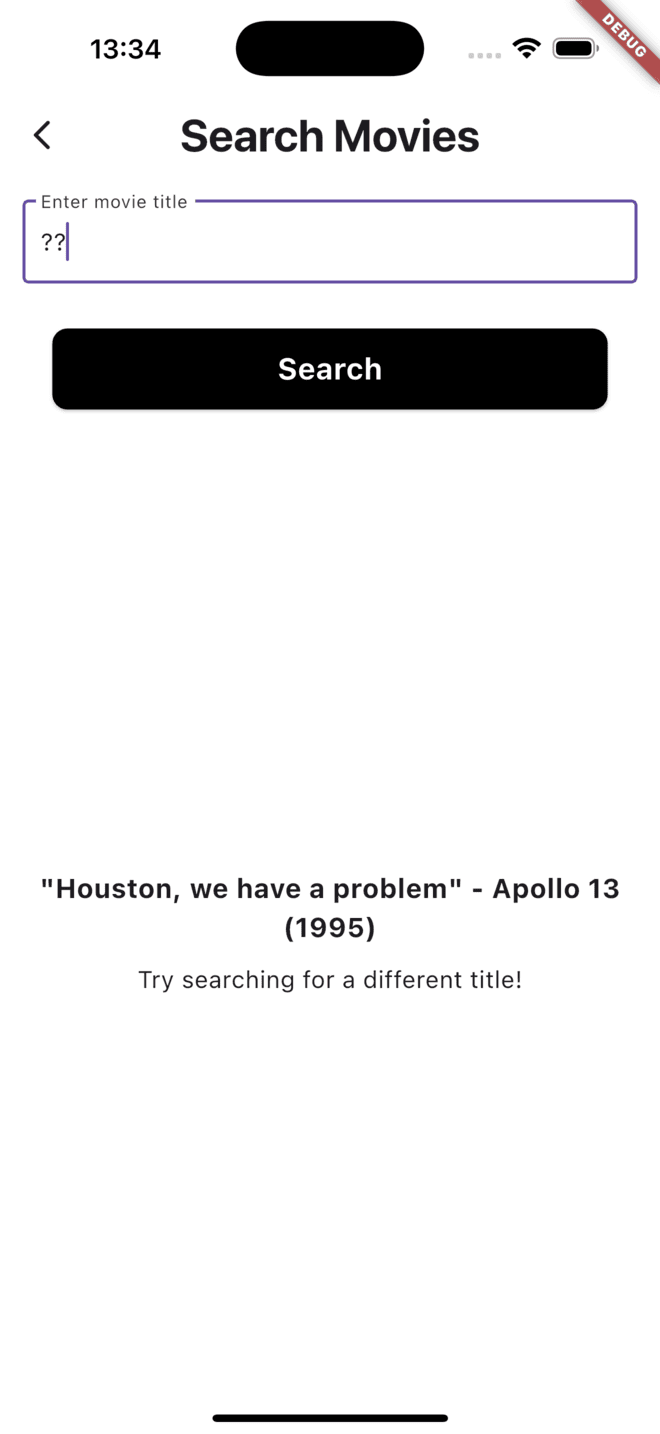
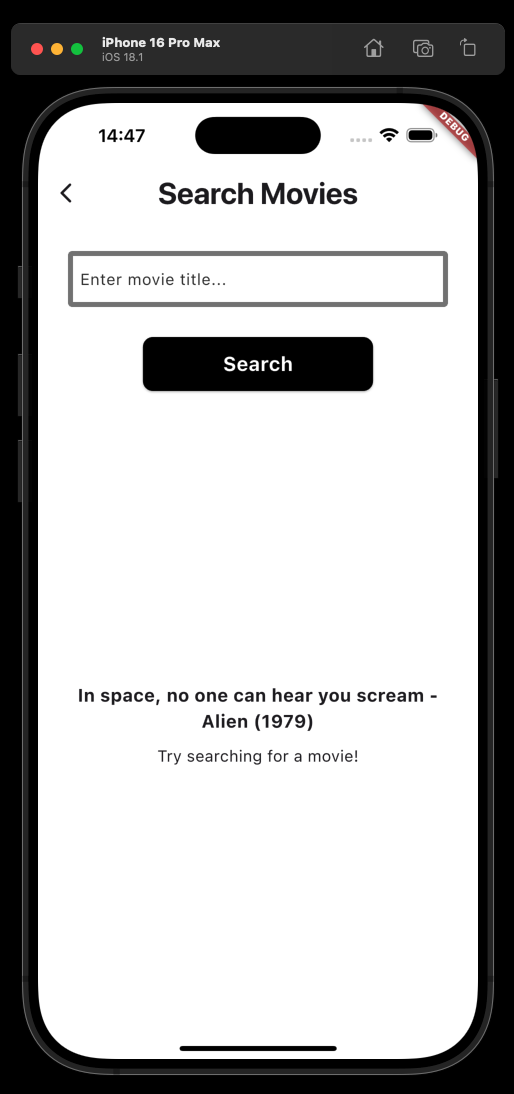
updated programming languages and some updated images on app and websites page, moved pub quiz into python projects from games

diff --git a/Doors-95/websites.html b/Doors-95/websites.html
@@ -69,6 +69,7 @@
             <img src="Images/xaatusite.png" alt="Xaatu Site">
             <h2>Xaatu</h2>
             <a href="https://github.com/xaatu/xaatu-website" target="_blank" id="github">GitHub</a>
+            <a href="https://xaatu.com" target="_blank" id="github">Live site</a>
             <p>I designed this site based on a Wix site I had previously made. 
                 I decided that I would be better off trying to build it myself from scratch, 
                 to give me more experience and to save money. 
@@ -86,7 +87,7 @@
         </div>
         <br>
         <div class="websites">
-            <img src="Images/caitlinsite.png" alt="Caitlin Tattoo Site">
+            <img src="Images/caitlinsite1.png" alt="Caitlin Tattoo Site">
             <h2>Caitlin O'Reilly Tattoo</h2>
             <a href="https://github.com/xaatu/caitlinoreillytattoo" target="_blank" id="github">GitHub</a>
             <p>I designed this site for my girlfriends Tattoo business.
@@ -96,8 +97,8 @@
                  <br>
                  <br>
                  <br>
-                 Again I wanted to incorporate an <b>API</b>, and as <b>Instagram</b> is where she gets the majority of her customers,
-                 we decided it would be good to link her <b>Instagram</b> so users could see her work and interact with her more easily.
+                 I wanted to incorporate her <b>live Instagram</b> feed, as <b>Instagram</b> is where she gets the majority of her customers,
+                 we decided it would be good to link it so users could see her work and interact with her more easily.
 
 
             </p>

diff --git a/Doors-95/apps.html b/Doors-95/apps.html
@@ -33,13 +33,12 @@
     <div class="page_icon">
         <img src="Images/apps.png" alt="Apps">
     </div>
-    <h3 class="music">This is my first attempt at using the Flutter framework to create an IOS app. Originally this came from a 6 hour task set by a potential employer, but after completion of the 6 hours, I decided to flesh it out more.
-    </h3>
+
 </div>
 
 
             <div class="apps">
-                <img src="Images/home (1).png" alt="Home Screen">
+                <img src="Images/home1.png" alt="Home Screen">
                 <h2>"SHAPE Movies" Home Screen</h2>
                 <a href="https://github.com/xaatu/omdb_api_updated" target="_blank" id="github">GitHub</a>
                 <p> This is the home screen. It features a logo I designed, with a bold App Bar title and rounded button. 
@@ -73,7 +72,7 @@
             </div>
 
             <div class="apps">
-                <img src="Images/moviedetails.png" alt="Details Screen">
+                <img src="Images/moviedetailscreen.png" alt="Details Screen">
                 <h2>"SHAPE Movies" Details Screen</h2>
                 <a href="https://github.com/xaatu/omdb_api_updated" target="_blank" id="github">GitHub</a>
                 <p> This is the Movie Details screen. It appears when the users clicks on a film, and displays the poster and film details in a full page. 

diff --git a/Doors-95/programming_languages.html b/Doors-95/programming_languages.html
@@ -46,6 +46,17 @@
                 I have made basic <a href="https://github.com/xaatu/ninja-peeps" target="_blank">Platformer Games</a>, <a href="https://github.com/xaatu/physicscalculator" target="_blank">Physics Calculators</a>, a MIDI Generator, a simple drum machine, and quite a few <a href="https://github.com/xaatu?tab=repositories" target="_blank">other things</a>.
             </p>
         </div>
+
+        <div class="programming_languages">
+            <img src="Images/dart.png" alt="Dart Logo">
+                <h1><u>Dart</u></h1>
+                <p>While completing the technical interview for a potential job, I was asked to create an <b>IOS app</b> in <b>Flutter</b>.
+                    <b>Flutter</b> is the framework, within which <b>Dart</b> is the programming language.
+                    While I may not be very experienced yet, I really enjoyed learning about <b>Dart</b>, and pushing myself to add <b>new features</b>.
+                    I was also able to get the app to run on my <b>IPhone</b> in profile mode, which felt great.
+                    Here is an example of my <a href="https://github.com/xaatu/ninja-peeps" target="_blank">IOS app</a>.
+                </p>
+            </div>
     
         <div class="programming_languages">
             <img src="Images/JavaScript.png" alt="JavaScript">

diff --git a/Doors-95/python.html b/Doors-95/python.html
@@ -72,6 +72,23 @@
         </div>
 
         <div class="python">
+            <img src="Images/pub_quiz.png" alt="Pub Quiz">
+        
+            <h2>Pub Quiz</h2>
+            <a href="https://github.com/xaatu/python_quiz" target="_blank" id="github">GitHub</a>
+            <p>After using TkInter in my calculator, I felt I had enough experience to try creating a quiz in the style of a Pub Quiz machine (hence the egregiously tacky font...)
+                <br>
+                <br>
+        Building on one of our tasks during the Python section of the JustIT course, I decided to take the Python Quiz and add a few extra layers.
+        <br>
+        <br>
+        This included a GUI to make it look more presentable, and an external dictionary function from which to load the questions and answers.
+        <br>
+        <br>
+        I then used Pyinstaller to package the contents into both Mac and Windows friendly versions, so they could be opened like an app.
+        </div>
+
+        <div class="python">
             <img src="Images/midigen.png" alt="Midi Generator">
             <h2>MIDI Generator</h2>
             <p>This is the start of a MIDI Generator. The idea is that by pre-programming notes to keys, 

diff --git a/Doors-95/games.html b/Doors-95/games.html
@@ -86,22 +86,6 @@
 
 
 
-            <div class="games">
-                <img src="Images/pub_quiz.png" alt="Pub Quiz">
-            
-                <h2>Pub Quiz</h2>
-                <a href="https://github.com/xaatu/python_quiz" target="_blank" id="github">GitHub</a>
-                <p>After using TkInter in my calculator, I felt I had enough experience to try creating a quiz in the style of a Pub Quiz machine (hence the egregiously tacky font...)
-                    <br>
-                    <br>
-            Building on one of our tasks during the Python section of the JustIT course, I decided to take the Python Quiz and add a few extra layers.
-            <br>
-            <br>
-            This included a GUI to make it look more presentable, and an external dictionary function from which to load the questions and answers.
-            <br>
-            <br>
-            I then used Pyinstaller to package the contents into both Mac and Windows friendly versions, so they could be opened like an app.
-            </div>
 
             <div class="games">
                 <video class="video" controls>
